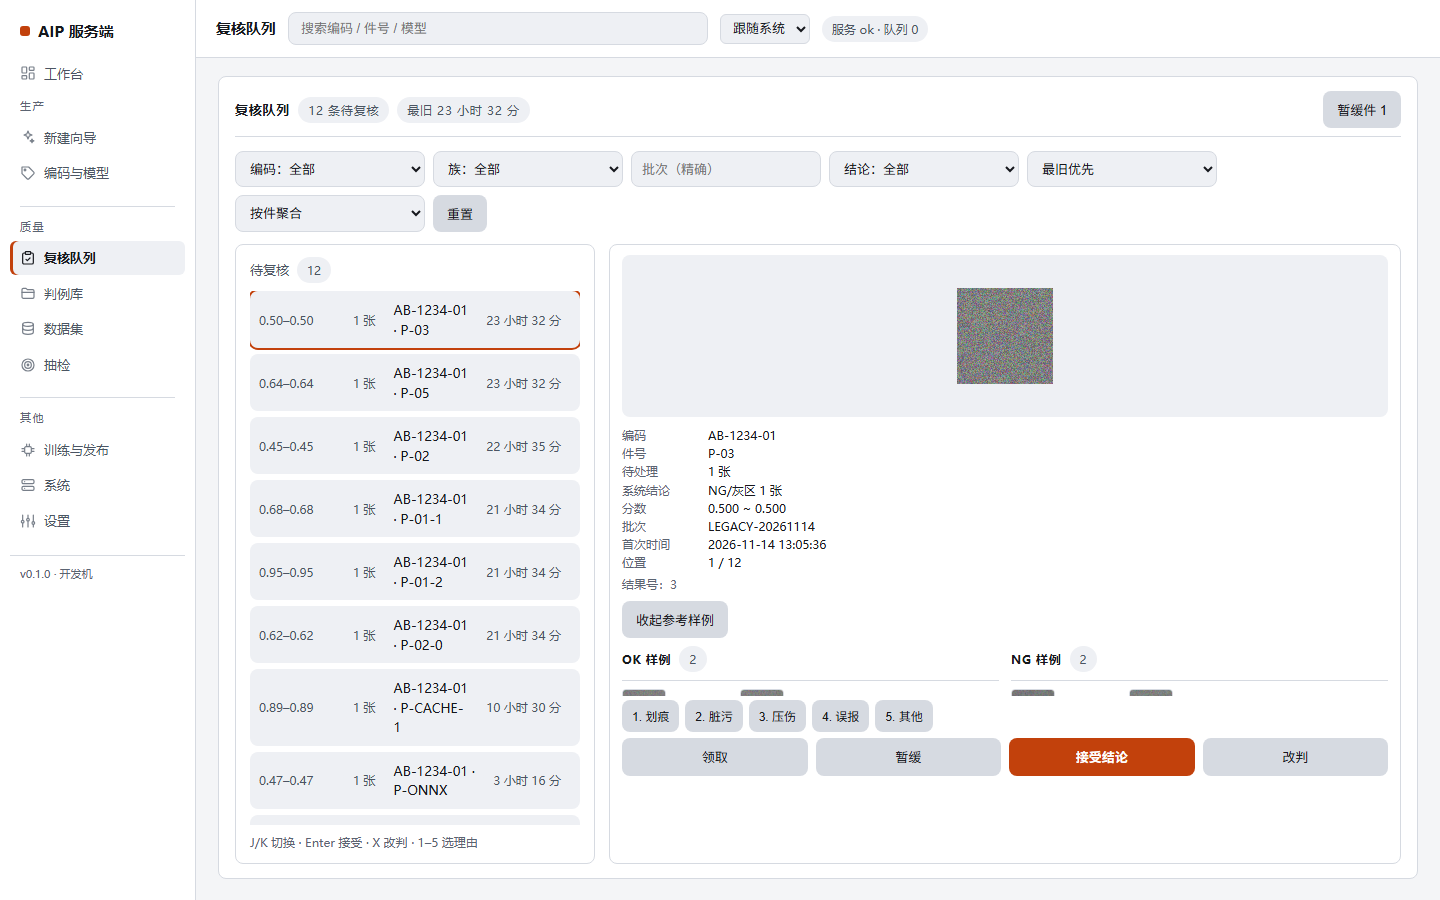
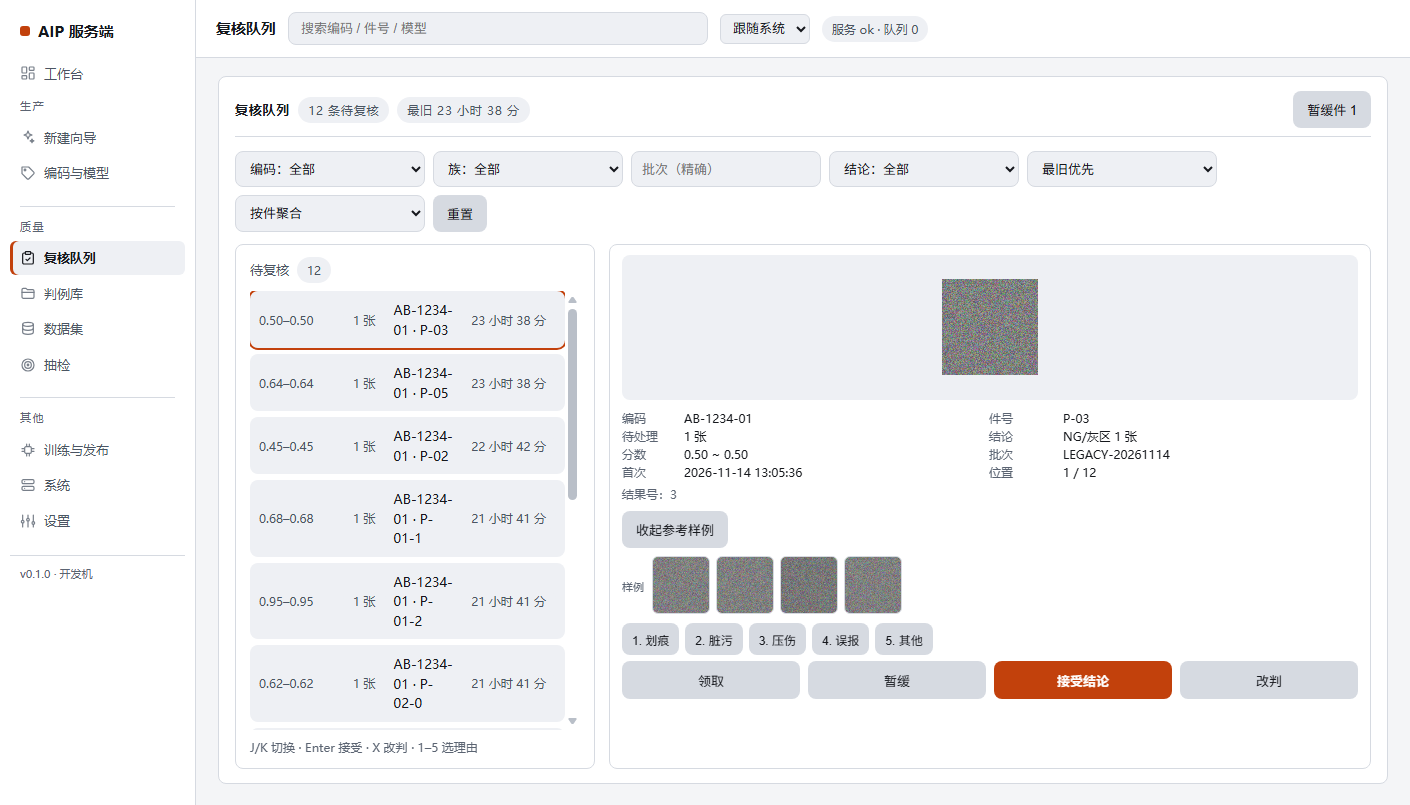
feat: 参考样例改固定缩略条+大图弹窗（去掉内联滚动）；冒烟加 refs-dialog

diff --git a/aip/web/admin.html b/aip/web/admin.html
@@ -5,6 +5,11 @@
 <meta name="color-scheme" content="light dark">
 <meta name="viewport" content="width=device-width, initial-scale=1">
 <title>AIP 服务端</title>
+<dialog id="refDlg" style="width:min(920px,94vw)">
+  <h2 style="margin-bottom:12px">参考样例 <span class="muted">（历史判例，可能影响判断）</span></h2>
+  <div id="refDlgBody"></div>
+  <div class="row" style="margin-top:14px"><button class="ghost" onclick="this.closest('dialog').close()">关闭</button></div>
+</dialog>
 <script>
   // 主题：auto / light / dark，先应用再绘制，避免闪白
   try { document.documentElement.dataset.theme = localStorage.getItem("aip-theme") || "auto"; } catch (e) {}
@@ -238,9 +243,17 @@
     display:flex;align-items:center;justify-content:center;overflow:hidden;margin-bottom:10px}
   .shot img{max-width:100%;max-height:420px;image-rendering:pixelated}
   .kv{display:grid;grid-template-columns:76px 1fr;gap:2px 10px;font-size:12px;line-height:1.35}
+  .kv.kv2{grid-template-columns:52px 1fr 64px 1fr}
   .kv div:nth-child(odd){color:var(--t3)}
-  #rRefs{max-height:50px;overflow:auto}
-  #rRefs img{max-height:44px;width:auto;border-radius:4px}
+  #rRefs{max-height:none;overflow:visible}
+  .ref-strip{display:flex;gap:6px;align-items:center;overflow:hidden}
+  .ref-strip figure{margin:0;width:58px}
+  .ref-strip img{width:58px;height:58px;object-fit:cover;border-radius:6px;
+    border:1px solid var(--g3);background:var(--g2);cursor:zoom-in}
+  .ref-strip figcaption{display:none}
+  .ref-more{width:58px;height:58px;border-radius:6px;border:1px dashed var(--g3);
+    background:var(--g2);color:var(--t2);font-size:12px;cursor:pointer}
+  .ref-strip .lbl{font-size:11px;color:var(--t3);margin-right:2px}
   .reasons{display:flex;flex-wrap:wrap;gap:6px;margin:4px 0}
   .reasons button{padding:6px 10px;font-size:12px;min-height:32px}
   .review-detail .row button{min-height:38px}
@@ -1190,14 +1203,15 @@ async function renderQuality() {
       const cur = items[idx];
       const ids = groupIds(cur);
       $("shot").src = `/results/${ids[0]}/image`;
+      $("rmeta").classList.add("kv2");
       $("rmeta").innerHTML = `
         <div>编码</div><div>${esc(cur.code)}</div>
         <div>件号</div><div>${esc(cur.part_no || "-")}</div>
         <div>待处理</div><div>${ids.length} 张</div>
-        <div>系统结论</div><div>${cur.kind === "part" ? `NG/灰区 ${cur.count} 张` : tag(cur.label)}</div>
-        <div>分数</div><div>${cur.kind === "part" ? cur.min_score.toFixed(3) + " ~ " + cur.max_score.toFixed(3) : cur.score.toFixed(3)}</div>
+        <div>结论</div><div>${cur.kind === "part" ? `NG/灰区 ${cur.count} 张` : tag(cur.label)}</div>
+        <div>分数</div><div>${cur.kind === "part" ? cur.min_score.toFixed(2) + " ~ " + cur.max_score.toFixed(2) : cur.score.toFixed(3)}</div>
         <div>批次</div><div>${esc(cur.batch_no || "-")}</div>
-        <div>首次时间</div><div>${fmtTime(cur.first_at || cur.created_at)}</div>
+        <div>首次</div><div>${fmtTime(cur.first_at || cur.created_at)}</div>
         <div>位置</div><div>${idx + 1} / ${items.length}</div>`;
       $("rshots").textContent = "结果号：" + ids.join(", ");
       $("rRefs").hidden = true;
@@ -1240,18 +1254,30 @@ async function renderQuality() {
       const box = $("rRefs");
       try {
         const refs = await api(`/results/${ids[0]}/references`);
-        const card = (c) => `<figure><img src="${c.image_url}" alt="${esc(c.verdict)} 样例" loading="lazy">
-          <figcaption>${esc(c.reason || "无理由")}</figcaption></figure>`;
-        box.innerHTML = `
-          <div class="refs">
-            <div><h2>OK 样例 <span class="pill">${refs.ok.length}</span></h2>
-              <div class="refrow">${refs.ok.length ? refs.ok.map(card).join("") : '<span class="muted">暂无</span>'}</div></div>
-            <div><h2>NG 样例 <span class="pill">${refs.ng.length}</span></h2>
-              <div class="refrow">${refs.ng.length ? refs.ng.map(card).join("") : '<span class="muted">暂无</span>'}</div></div>
-          </div>
-          ${refs.note ? `<p class="muted" style="margin:8px 0 0">${esc(refs.note)}</p>` : ""}`;
+        window.__refs = refs;
+        const all = [
+          ...refs.ok.map(c => ({...c, kind: "ok"})),
+          ...refs.ng.map(c => ({...c, kind: "ng"})),
+        ];
+        const thumb = (c) => `<figure title="${esc(c.kind.toUpperCase())} · ${esc(c.reason || "无理由")}">
+          <img src="${c.image_url}" alt="${esc(c.kind)} 样例" loading="lazy" data-ref="1"></figure>`;
+        const shown = all.slice(0, 4);
+        box.innerHTML = `<div class="ref-strip">
+          <span class="lbl">样例</span>
+          ${shown.map(thumb).join("") || '<span class="muted">暂无</span>'}
+          ${all.length > 4 ? `<button class="ref-more" id="refMore">+${all.length - 4}</button>` : ""}
+        </div>
+        ${refs.note ? `<div class="muted" style="margin-top:2px">${esc(refs.note)}</div>` : ""}`;
         box.hidden = false;
         $("rRefBtn").textContent = "收起参考样例";
+        const openDlg = () => {
+          $("refDlgBody").innerHTML = `<div class="refrow">${all.map(c => `<figure>
+            <img src="${c.image_url}" alt="${esc(c.kind)} 样例" loading="lazy">
+            <figcaption>${esc(c.kind.toUpperCase())} · ${esc(c.reason || "无理由")}</figcaption></figure>`).join("")}</div>`;
+          $("refDlg").showModal();
+        };
+        box.querySelectorAll("[data-ref]").forEach(img => { img.onclick = openDlg; });
+        if ($("refMore")) $("refMore").onclick = openDlg;
       } catch (e) { toast(e.message, true); }
     }
 
